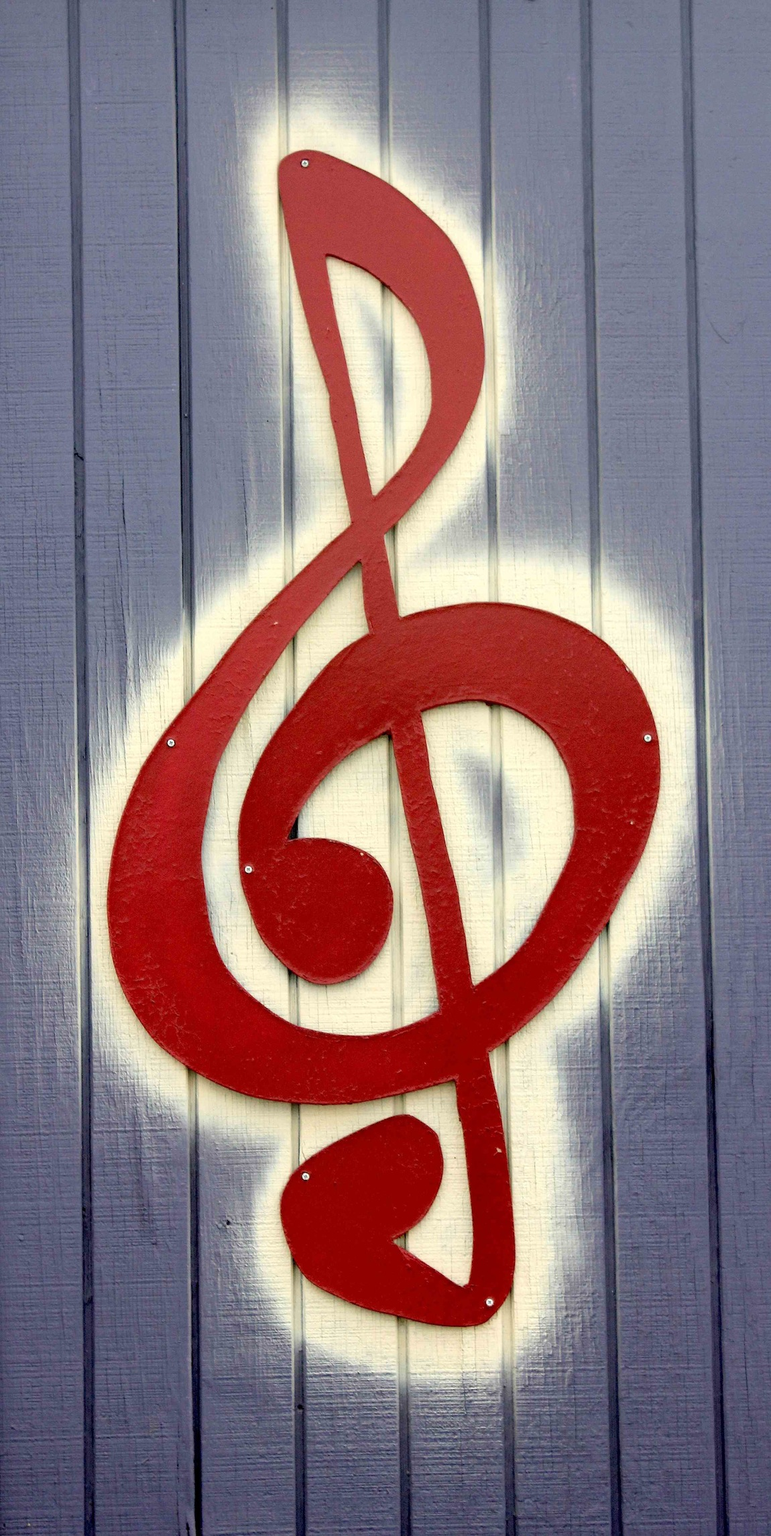
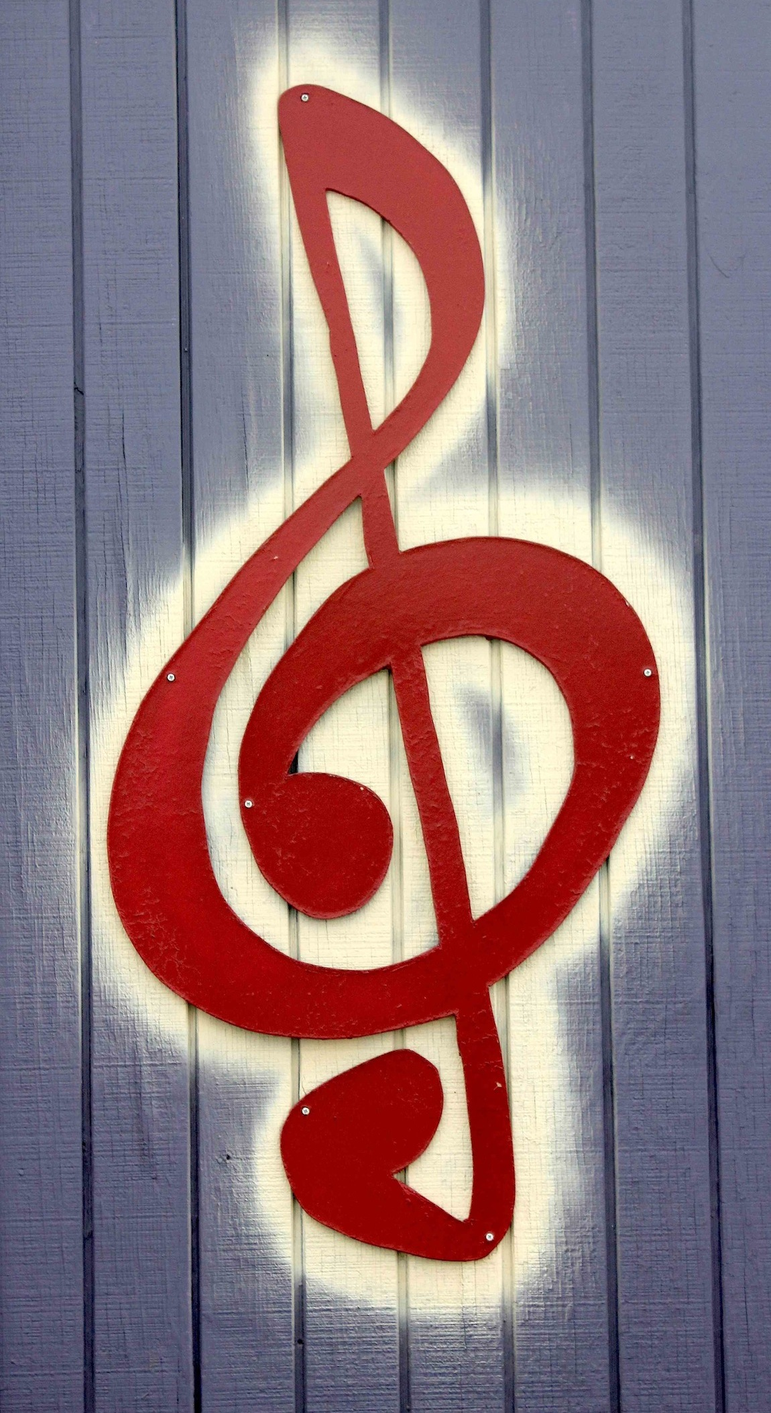
hei

diff --git a/home.html b/home.html
@@ -122,29 +122,32 @@
         <div class="imagefront">
             <div id="still" class="dumbCrossFade">
                 <img src="Images/home/small/purple4.jpg">
-               </div>
-               <div id="change-big" class="dumbCrossFade">
+            </div>
+            
+            <div id="change-big" class="dumbCrossFade">
                   <div class="dumbItem"><img src="Images/home/big/purpleporn3.jpg"></div>
                   <div class="dumbItem"><img src="Images/home/big/inside.jpg"></div>
-
-                  <div class="dumbItem"><img src="Images/home/big/tree.jpg"></div>
                   <div class="dumbItem"><img src="Images/home/big/people.jpg"></div>
+                  <div class="dumbItem"><img src="Images/home/big/working.jpg"></div>
+                  <div class="dumbItem"><img src="Images/home/big/tree.jpg"></div>
+
+
 
               </div>
                 
                <div id="change-thin" class="dumbCrossFade">               
                   <div class="dumbItem" ><img src="Images/home/thin/gclef.jpg"></div>
-                  <div class="dumbItem"><img src="Images/home/thin/out.jpg"></div>
                   <div class="dumbItem"><img src="Images/home/thin/outside.jpg"></div>
+                  <div class="dumbItem"><img src="Images/home/thin/out.jpg"></div>
+
+
 
                </div>
                
                <div id="change-small" class="dumbCrossFade">
-                  <div class="dumbItem"><img src="Images/home/small/inside.jpg"></div>
-
-                  <div class="dumbItem"><img src="Images/home/small/purple4.jpg"></div>
-                  <div class="dumbItem"><img src="Images/home/small/purpleporn3.jpg"></div>
-                  <div class="dumbItem"><img src="Images/home/small/singer.jpg"></div>
+                    <div class="dumbItem"><img src="Images/home/small/singer.jpg"></div>
+                    <div class="dumbItem"><img src="Images/home/small/inside.jpg"></div>
+                    <div class="dumbItem"><img src="Images/home/small/coffeeStill.jpg"></div>
 
 
 
@@ -153,9 +156,7 @@
           </div>
         </div>
          <!--<img src="Images/to be.jpg">-->
-              <div class="quote">
-                <p> "...to be Javanican is to pursuit of coffee perfections"</p>
-              </div>
+              
              <div class="event">
                 <h4> Live music every weekend </h4>
                 <p> Enjoy live music performances every weekend</p>
@@ -168,7 +169,9 @@
               <img src="Images/the_works.png">
              </div>
                 
-              
+              <div class="quote">
+                <p> "...to be Javanican is to pursuit of coffee perfections"</p>
+              </div>
             
         </div>
         <div class="clear"></div>

diff --git a/Stylesheets/main.css b/Stylesheets/main.css
@@ -264,7 +264,7 @@ h3 {
 	float: left;
 	width: 680px;
 	margin-left: 30px;
-	padding: 20px 0 20px 0;
+	padding: 8px 0 20px 0;
 	border: black 0px solid ;
 	text-align: left;
 	display: block;
